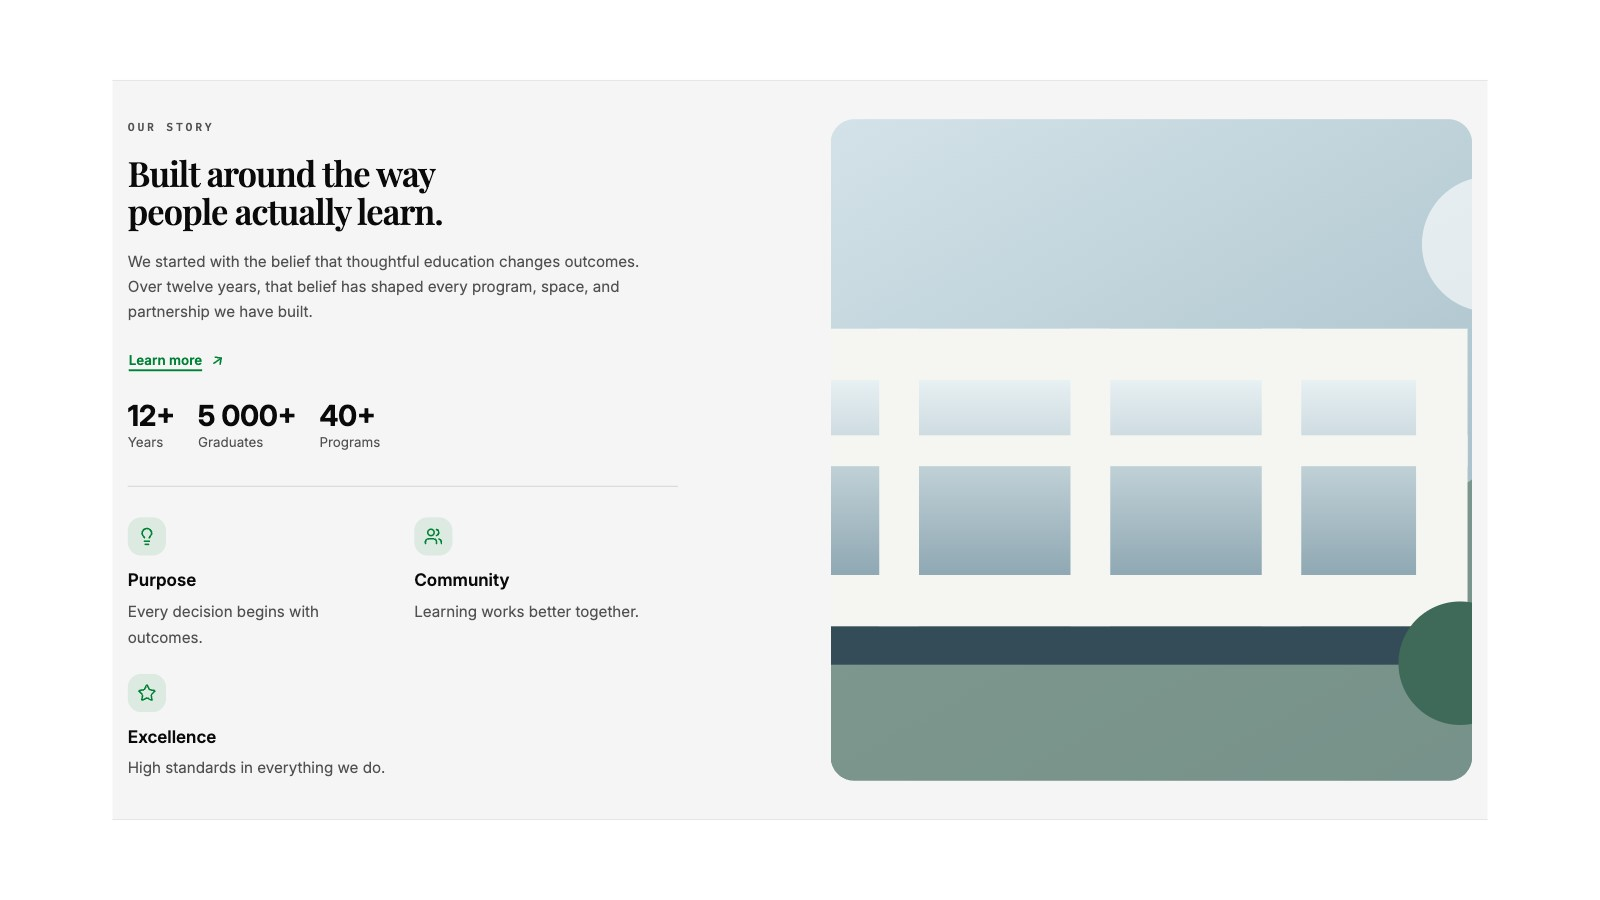
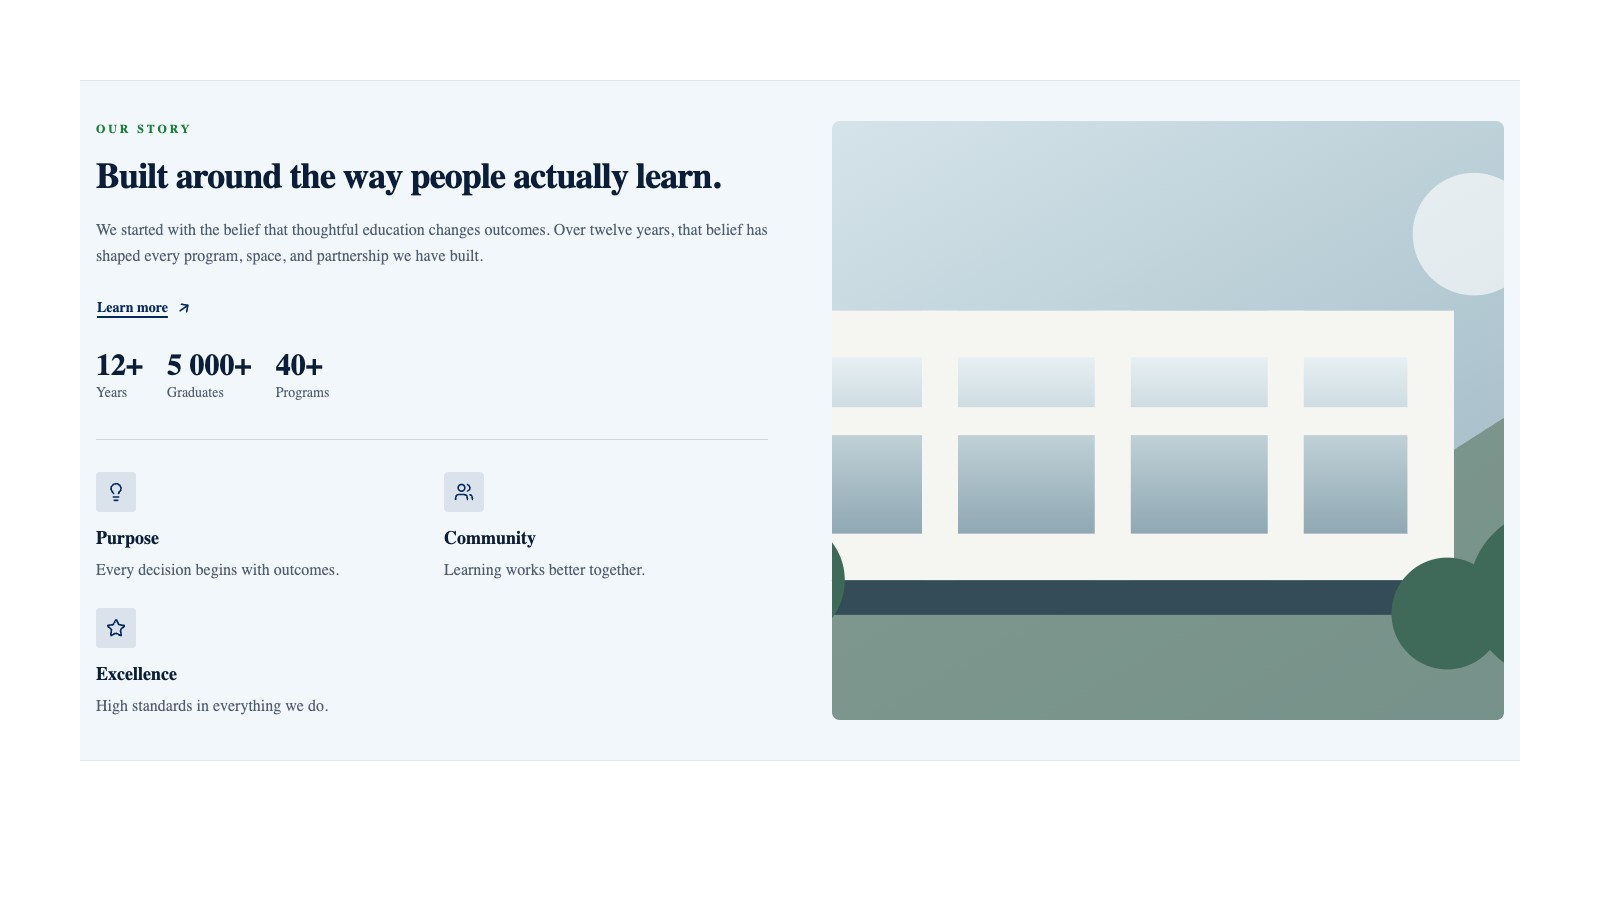
fix: About Block changes

diff --git a/src/blocks/AboutSection/Component.tsx b/src/blocks/AboutSection/Component.tsx
@@ -422,7 +422,7 @@ export function AboutSectionBlockComponent({
                       edgeContentPaddingClasses,
                     )}
                   >
-                    <div className="mr-auto w-full max-w-xl text-left">{textContent}</div>
+                    <div className="w-full text-left">{textContent}</div>
                   </div>
                 </div>
               ) : (
@@ -432,7 +432,7 @@ export function AboutSectionBlockComponent({
                     edgeContentPaddingClasses,
                   )}
                 >
-                  <div className="mr-auto w-full max-w-xl text-left">{textContent}</div>
+                  <div className="w-full text-left">{textContent}</div>
                 </div>
               )}
             </div>
@@ -459,7 +459,7 @@ export function AboutSectionBlockComponent({
                 filledContentPaddingClasses,
               )}
             >
-              <div className="w-full max-w-xl text-left">{textContent}</div>
+              <div className="w-full text-left">{textContent}</div>
             </div>
           </div>
           <BlockFooterActions actions={footerActions} />
@@ -471,13 +471,13 @@ export function AboutSectionBlockComponent({
               <div className={cn(splitOrder.media, 'md:h-full')} data-about-media-frame="contained">
                 {containedImageContent}
               </div>
-              <div className={cn(splitOrder.content, 'w-full max-w-xl text-left')}>
+              <div className={cn(splitOrder.content, 'w-full text-left')}>
                 {textContent}
               </div>
             </div>
           ) : resolvedVariant === 'centered' ? (
-            <div className="mx-auto flex max-w-3xl flex-col items-center gap-8 text-center">
-              <div className="flex flex-col items-center gap-5">
+            <div className="flex w-full flex-col items-center gap-8 text-center">
+              <div className="flex w-full flex-col items-center gap-5">
                 {eyebrow?.trim() ? (
                   <SectionEyebrow surface={appearanceClasses.background}>
                     {eyebrow.trim()}
@@ -522,7 +522,7 @@ export function AboutSectionBlockComponent({
               ) : null}
             </div>
           ) : (
-            <div className="mx-auto max-w-3xl">{textContent}</div>
+            <div className="w-full">{textContent}</div>
           )}
           <BlockFooterActions actions={footerActions} />
         </div>

diff --git a/.agents/skills/project-context/references/block-system.md b/.agents/skills/project-context/references/block-system.md
@@ -87,6 +87,10 @@ Production Page blocks are wrapped in `BlockErrorBoundary`, so one broken block 
 - `bannerCtaFields.ts` and `bannerCtaPresentation.ts`: banner layout controls and class resolution.
 - `siteSocialLinks.ts`: normalized CMS social destinations.
 
+About Section content uses the full width available in its layout. Split variants fill their text
+column without an additional reading-width cap; centered and text-only variants fill the regular
+block container. Edge-to-edge layouts retain their outer alignment boundary and existing padding.
+
 ## Automatic Motion
 
 Hero Carousel, Rotating Announcement, and Marquee Announcement share one visitor-facing automatic
